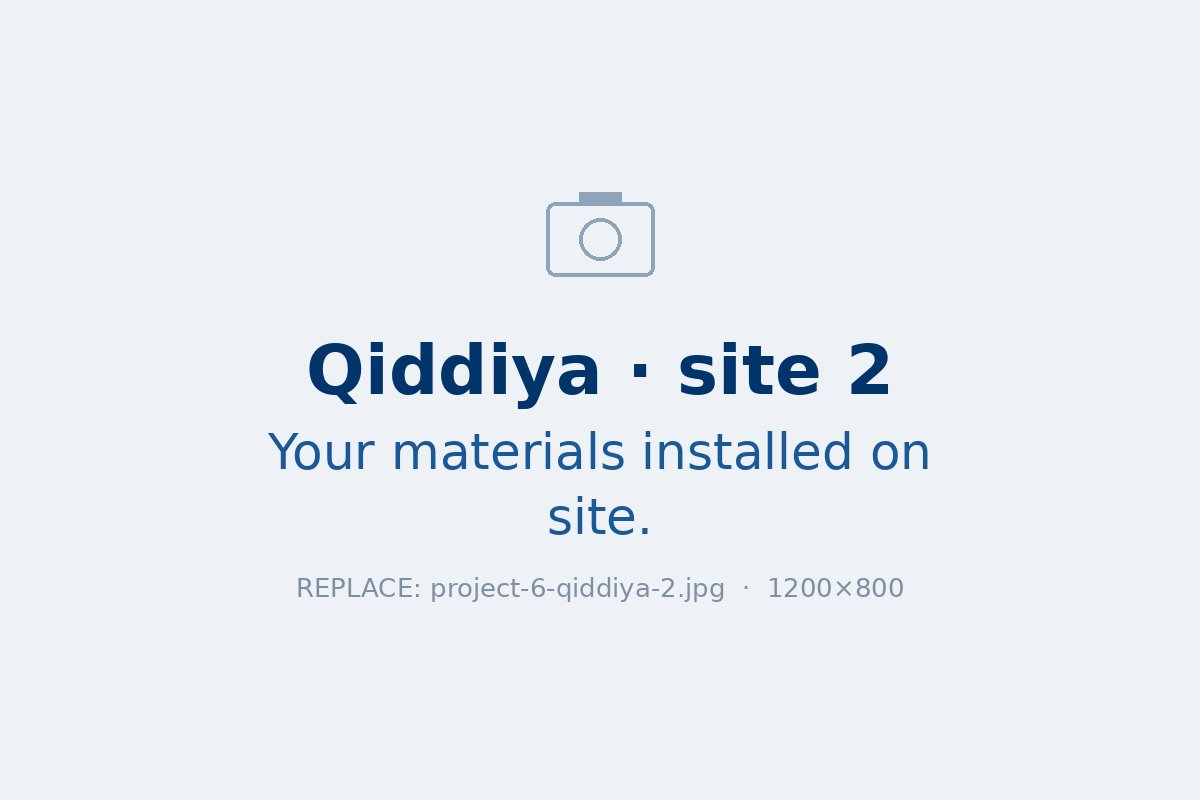
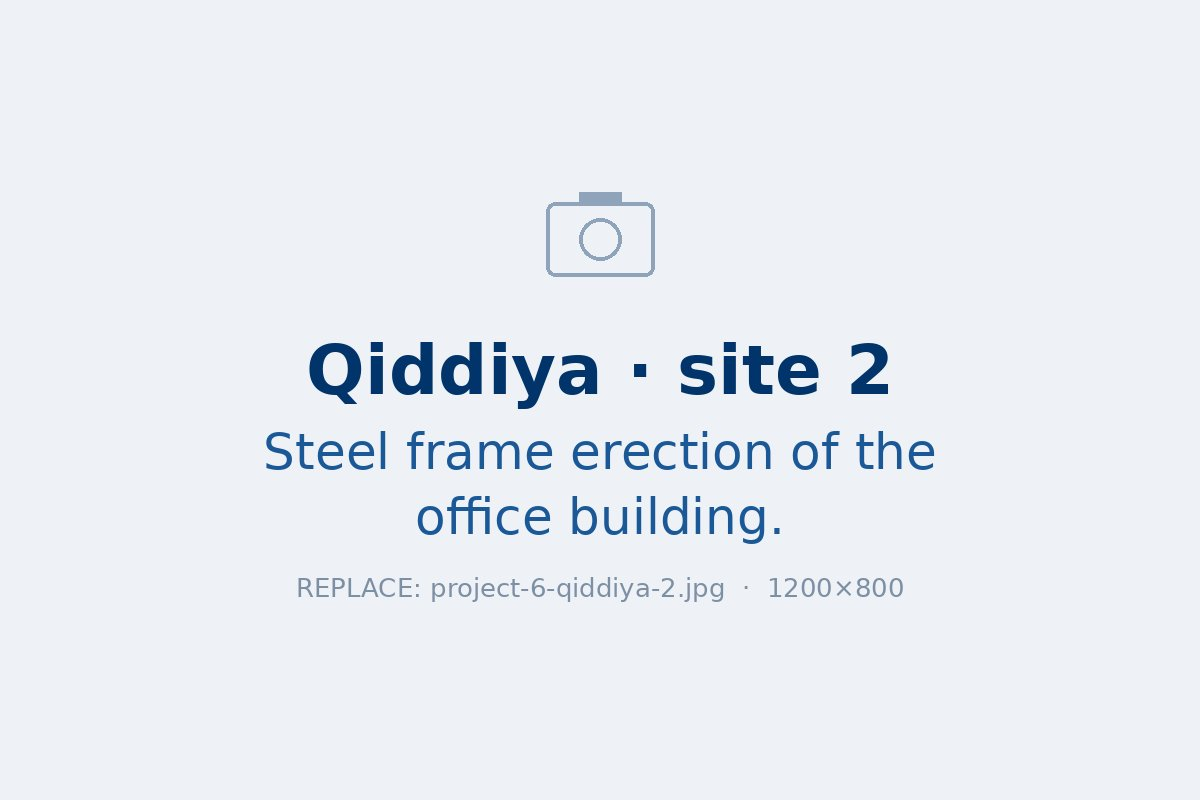
Fill in the Qiddiya Delta B office project
From the Package 2A scope and methodology documents: EPC+O turnkey
contract for a 200-staff single-storey steel office (2,044 m², 14,796 m²
site, 134 parking spaces), with client, scope, operations and
standards. The architectural rendering becomes the cover photo, and the
placeholder tool now skips files that hold real photos.

Claude-Session: https://claude.ai/code/session_01RTby4RrQXZBZquxnUuQmaH

Changed region(s): [[0.2158, 0.5312, 0.8017, 0.5938], [0.3392, 0.625, 0.6475, 0.6875]]

diff --git a/allgood-website/ar.html b/allgood-website/ar.html
@@ -325,11 +325,11 @@
           </article>
           <article class="project gallery__item">
             <button class="project__open" type="button" data-open="project-6" aria-haspopup="dialog">
-              <img class="photo" src="assets/photos/project-6-qiddiya.jpg" alt="القدية" width="1200" height="800" loading="lazy">
-              <span class="roles"><span class="role role--subcontractor">مقاول باطن</span></span>
+              <img class="photo" src="assets/photos/project-6-qiddiya.jpg" alt="مكتب القدية دلتا B، تصور معماري" width="1200" height="800" loading="lazy">
+              <span class="roles"><span class="role role--subcontractor">مقاول EPC+O</span></span>
               <span class="project__tag">مشروع عملاق</span>
-              <span class="project__title">القدية</span>
-              <span class="project__short">أعمال داخل مشروع القدية العملاق في الرياض.</span>
+              <span class="project__title">مكتب القدية دلتا B</span>
+              <span class="project__short">مبنى مكاتب بهيكل فولاذي لـ 200 موظف بنظام تسليم المفتاح: تصميم وتنفيذ وتشغيل.</span>
               <span class="project__more">عرض التفاصيل <svg viewBox="0 0 24 24" aria-hidden="true"><path d="M9 5l7 7-7 7"/></svg></span>
             </button>
           </article>
@@ -724,15 +724,15 @@
       <button class="modal__close" type="button" data-close aria-label="إغلاق">
         <svg viewBox="0 0 24 24" aria-hidden="true"><path d="M6 6l12 12M18 6L6 18"/></svg>
       </button>
-      <span class="roles"><span class="role role--subcontractor">مقاول باطن</span></span>
+      <span class="roles"><span class="role role--subcontractor">مقاول EPC+O</span></span>
       <p class="project__tag">مشروع عملاق</p>
-      <h3 class="modal__title" id="project-6-title">القدية</h3>
+      <h3 class="modal__title" id="project-6-title">مكتب القدية دلتا B</h3>
       <h4 class="modal__sub">موقع المشروع</h4>
       <div class="gallery" data-gallery>
-        <div class="gallery__track" tabindex="0" aria-label="القدية: صور موقع المشروع">
-          <img class="photo gallery__item" src="assets/photos/project-6-qiddiya.jpg" alt="القدية: موقع المشروع، صورة 1" width="1200" height="800" loading="lazy">
-          <img class="photo gallery__item" src="assets/photos/project-6-qiddiya-2.jpg" alt="القدية: موقع المشروع، صورة 2" width="1200" height="800" loading="lazy">
-          <img class="photo gallery__item" src="assets/photos/project-6-qiddiya-3.jpg" alt="القدية: موقع المشروع، صورة 3" width="1200" height="800" loading="lazy">
+        <div class="gallery__track" tabindex="0" aria-label="مكتب القدية دلتا B: صور موقع المشروع">
+          <img class="photo gallery__item" src="assets/photos/project-6-qiddiya.jpg" alt="مكتب القدية دلتا B: تصور معماري" width="1200" height="800" loading="lazy">
+          <img class="photo gallery__item" src="assets/photos/project-6-qiddiya-2.jpg" alt="مكتب القدية دلتا B: موقع المشروع، صورة 2" width="1200" height="800" loading="lazy">
+          <img class="photo gallery__item" src="assets/photos/project-6-qiddiya-3.jpg" alt="مكتب القدية دلتا B: موقع المشروع، صورة 3" width="1200" height="800" loading="lazy">
         </div>
         <div class="gallery__nav">
           <button class="gallery__btn" data-dir="-1" aria-label="الصورة السابقة"><svg viewBox="0 0 24 24" aria-hidden="true"><path d="M15 5l-7 7 7 7"/></svg></button>
@@ -741,10 +741,10 @@
       </div>
       <h4 class="modal__sub">أعمالنا في الموقع</h4>
       <div class="gallery" data-gallery>
-        <div class="gallery__track" tabindex="0" aria-label="القدية: صور أعمالنا في الموقع">
-          <img class="photo gallery__item" src="assets/photos/project-6-qiddiya-works-1.jpg" alt="القدية: أعمالنا في الموقع، صورة 1" width="1200" height="800" loading="lazy">
-          <img class="photo gallery__item" src="assets/photos/project-6-qiddiya-works-2.jpg" alt="القدية: أعمالنا في الموقع، صورة 2" width="1200" height="800" loading="lazy">
-          <img class="photo gallery__item" src="assets/photos/project-6-qiddiya-works-3.jpg" alt="القدية: أعمالنا في الموقع، صورة 3" width="1200" height="800" loading="lazy">
+        <div class="gallery__track" tabindex="0" aria-label="مكتب القدية دلتا B: صور أعمالنا في الموقع">
+          <img class="photo gallery__item" src="assets/photos/project-6-qiddiya-works-1.jpg" alt="مكتب القدية دلتا B: أعمالنا في الموقع، صورة 1" width="1200" height="800" loading="lazy">
+          <img class="photo gallery__item" src="assets/photos/project-6-qiddiya-works-2.jpg" alt="مكتب القدية دلتا B: أعمالنا في الموقع، صورة 2" width="1200" height="800" loading="lazy">
+          <img class="photo gallery__item" src="assets/photos/project-6-qiddiya-works-3.jpg" alt="مكتب القدية دلتا B: أعمالنا في الموقع، صورة 3" width="1200" height="800" loading="lazy">
         </div>
         <div class="gallery__nav">
           <button class="gallery__btn" data-dir="-1" aria-label="الصورة السابقة"><svg viewBox="0 0 24 24" aria-hidden="true"><path d="M15 5l-7 7 7 7"/></svg></button>
@@ -752,11 +752,15 @@
         </div>
       </div>
       <dl class="details">
-        <dt>دورنا</dt><dd>مقاول باطن</dd>
-        <dt>الموقع</dt><dd>القدية، الرياض، المملكة العربية السعودية</dd>
-        <dt>العميل / مقاول EPC</dt><dd>يُضاف لاحقًا</dd>
-        <dt>وحدة الأعمال</dt><dd>يُضاف لاحقًا</dd>
-        <dt>النطاق كمقاول باطن</dt><dd>يُضاف لاحقًا.</dd>
+        <dt>دورنا</dt><dd>مقاول تسليم مفتاح EPC+O: الهندسة والمشتريات والإنشاء والتشغيل</dd>
+        <dt>الموقع</dt><dd>منطقة تطوير القدية (دلتا B)، منطقة الرياض</dd>
+        <dt>العميل</dt><dd>شركة القدية للاستثمار</dd>
+        <dt>الحزمة</dt><dd>دلتا B، الحزمة 2A: مكتب صاحب العمل لـ 200 موظف</dd>
+        <dt>المنشأة</dt><dd>مبنى مكاتب بهيكل فولاذي من طابق واحد بمساحة 2,044 م² مع غرفة حراسة، على موقع مساحته 14,796 م²، و134 موقفًا للسيارات. عمر تصميمي 10 سنوات، مع جاهزية لإضافة طابق ثانٍ مستقبلًا.</dd>
+        <dt>نطاق العمل</dt><dd>التصميم وتنسيق نمذجة BIM، والمشتريات والتصنيع المسبق في المصنع، والأعمال المدنية والهياكل الفولاذية، والأعمال الكهروميكانيكية كاملة (تكييف VRF، ومولدات احتياطية بقدرة 460 كيلوواط، والحماية من الحريق، والاتصالات والأمن)، والطرق والمواقف وتنسيق المواقع، ثم الاختبار واعتماد الدفاع المدني والتسليم.</dd>
+        <dt>التشغيل</dt><dd>إدارة المرافق بعد التسليم: الصيانة الوقائية والتصحيحية، والكوادر، والإعاشة، والمستلزمات.</dd>
+        <dt>المعايير</dt><dd>كود البناء السعودي، ومتطلبات الدفاع المدني، والمعايير الفنية لشركة القدية</dd>
+        <dt>وحدات الأعمال</dt><dd>الإنشاءات الهندسية · الهياكل الفولاذية والتصنيع المعدني · المواد الكهربائية · المعدات ودعم المواقع</dd>
       </dl>
     </div>
   </dialog>

diff --git a/allgood-website/index.html b/allgood-website/index.html
@@ -325,11 +325,11 @@
           </article>
           <article class="project gallery__item">
             <button class="project__open" type="button" data-open="project-6" aria-haspopup="dialog">
-              <img class="photo" src="assets/photos/project-6-qiddiya.jpg" alt="Qiddiya" width="1200" height="800" loading="lazy">
-              <span class="roles"><span class="role role--subcontractor">Subcontractor</span></span>
+              <img class="photo" src="assets/photos/project-6-qiddiya.jpg" alt="Qiddiya Delta B office, architectural rendering" width="1200" height="800" loading="lazy">
+              <span class="roles"><span class="role role--subcontractor">EPC+O contractor</span></span>
               <span class="project__tag">Giga-project</span>
-              <span class="project__title">Qiddiya</span>
-              <span class="project__short">Works inside the Qiddiya giga-project in Riyadh.</span>
+              <span class="project__title">Qiddiya Delta B Office</span>
+              <span class="project__short">Turnkey steel-structure office for 200 staff: design, build and operate.</span>
               <span class="project__more">View details <svg viewBox="0 0 24 24" aria-hidden="true"><path d="M9 5l7 7-7 7"/></svg></span>
             </button>
           </article>
@@ -724,15 +724,15 @@
       <button class="modal__close" type="button" data-close aria-label="Close">
         <svg viewBox="0 0 24 24" aria-hidden="true"><path d="M6 6l12 12M18 6L6 18"/></svg>
       </button>
-      <span class="roles"><span class="role role--subcontractor">Subcontractor</span></span>
+      <span class="roles"><span class="role role--subcontractor">EPC+O contractor</span></span>
       <p class="project__tag">Giga-project</p>
-      <h3 class="modal__title" id="project-6-title">Qiddiya</h3>
+      <h3 class="modal__title" id="project-6-title">Qiddiya Delta B Office</h3>
       <h4 class="modal__sub">Project site</h4>
       <div class="gallery" data-gallery>
-        <div class="gallery__track" tabindex="0" aria-label="Qiddiya: project site photos">
-          <img class="photo gallery__item" src="assets/photos/project-6-qiddiya.jpg" alt="Qiddiya: project site, photo 1" width="1200" height="800" loading="lazy">
-          <img class="photo gallery__item" src="assets/photos/project-6-qiddiya-2.jpg" alt="Qiddiya: project site, photo 2" width="1200" height="800" loading="lazy">
-          <img class="photo gallery__item" src="assets/photos/project-6-qiddiya-3.jpg" alt="Qiddiya: project site, photo 3" width="1200" height="800" loading="lazy">
+        <div class="gallery__track" tabindex="0" aria-label="Qiddiya Delta B Office: project site photos">
+          <img class="photo gallery__item" src="assets/photos/project-6-qiddiya.jpg" alt="Qiddiya Delta B Office: architectural rendering" width="1200" height="800" loading="lazy">
+          <img class="photo gallery__item" src="assets/photos/project-6-qiddiya-2.jpg" alt="Qiddiya Delta B Office: project site, photo 2" width="1200" height="800" loading="lazy">
+          <img class="photo gallery__item" src="assets/photos/project-6-qiddiya-3.jpg" alt="Qiddiya Delta B Office: project site, photo 3" width="1200" height="800" loading="lazy">
         </div>
         <div class="gallery__nav">
           <button class="gallery__btn" data-dir="-1" aria-label="Previous photo"><svg viewBox="0 0 24 24" aria-hidden="true"><path d="M15 5l-7 7 7 7"/></svg></button>
@@ -741,10 +741,10 @@
       </div>
       <h4 class="modal__sub">Our works on site</h4>
       <div class="gallery" data-gallery>
-        <div class="gallery__track" tabindex="0" aria-label="Qiddiya: our works on site photos">
-          <img class="photo gallery__item" src="assets/photos/project-6-qiddiya-works-1.jpg" alt="Qiddiya: our works on site, photo 1" width="1200" height="800" loading="lazy">
-          <img class="photo gallery__item" src="assets/photos/project-6-qiddiya-works-2.jpg" alt="Qiddiya: our works on site, photo 2" width="1200" height="800" loading="lazy">
-          <img class="photo gallery__item" src="assets/photos/project-6-qiddiya-works-3.jpg" alt="Qiddiya: our works on site, photo 3" width="1200" height="800" loading="lazy">
+        <div class="gallery__track" tabindex="0" aria-label="Qiddiya Delta B Office: our works on site photos">
+          <img class="photo gallery__item" src="assets/photos/project-6-qiddiya-works-1.jpg" alt="Qiddiya Delta B Office: our works on site, photo 1" width="1200" height="800" loading="lazy">
+          <img class="photo gallery__item" src="assets/photos/project-6-qiddiya-works-2.jpg" alt="Qiddiya Delta B Office: our works on site, photo 2" width="1200" height="800" loading="lazy">
+          <img class="photo gallery__item" src="assets/photos/project-6-qiddiya-works-3.jpg" alt="Qiddiya Delta B Office: our works on site, photo 3" width="1200" height="800" loading="lazy">
         </div>
         <div class="gallery__nav">
           <button class="gallery__btn" data-dir="-1" aria-label="Previous photo"><svg viewBox="0 0 24 24" aria-hidden="true"><path d="M15 5l-7 7 7 7"/></svg></button>
@@ -752,11 +752,15 @@
         </div>
       </div>
       <dl class="details">
-        <dt>Our role</dt><dd>Subcontractor</dd>
-        <dt>Location</dt><dd>Qiddiya, Riyadh, Saudi Arabia</dd>
-        <dt>Client / EPC</dt><dd>To be added</dd>
-        <dt>Business unit</dt><dd>To be added</dd>
-        <dt>Scope as subcontractor</dt><dd>To be added.</dd>
+        <dt>Our role</dt><dd>EPC+O turnkey contractor: engineering, procurement, construction and operations</dd>
+        <dt>Location</dt><dd>Qiddiya Development Area (Delta B), Riyadh Province</dd>
+        <dt>Client</dt><dd>Qiddiya Investment Company (QIC)</dd>
+        <dt>Package</dt><dd>Delta B, Package 2A: Employer Office for 200 staff</dd>
+        <dt>Facility</dt><dd>Single-storey steel-frame office of 2,044 m² with a guardhouse, on a 14,796 m² site, with 134 parking spaces. 10-year design life, ready for a future second storey.</dd>
+        <dt>Scope</dt><dd>Design and BIM coordination, procurement and factory prefabrication, civil and steel structure works, full MEP (VRF air conditioning, 460 kW standby generators, fire protection, ICT and security), roads, parking and landscaping, then testing, Civil Defense approval and handover.</dd>
+        <dt>Operations</dt><dd>Facility management after handover: preventive and corrective maintenance, staffing, catering and supplies.</dd>
+        <dt>Standards</dt><dd>Saudi Building Code (SBC), Saudi Civil Defense and QIC technical standards</dd>
+        <dt>Business units</dt><dd>Engineering construction · Steel &amp; metal fabrication · Electrical materials · Equipment &amp; site support</dd>
       </dl>
     </div>
   </dialog>

diff --git a/allgood-website/zh.html b/allgood-website/zh.html
@@ -325,11 +325,11 @@
           </article>
           <article class="project gallery__item">
             <button class="project__open" type="button" data-open="project-6" aria-haspopup="dialog">
-              <img class="photo" src="assets/photos/project-6-qiddiya.jpg" alt="齐迪亚" width="1200" height="800" loading="lazy">
-              <span class="roles"><span class="role role--subcontractor">分包商</span></span>
+              <img class="photo" src="assets/photos/project-6-qiddiya.jpg" alt="齐迪亚 Delta B 办公楼，建筑效果图" width="1200" height="800" loading="lazy">
+              <span class="roles"><span class="role role--subcontractor">EPC+O 总承包</span></span>
               <span class="project__tag">超级项目</span>
-              <span class="project__title">齐迪亚</span>
-              <span class="project__short">在利雅得齐迪亚超级项目内进场施工。</span>
+              <span class="project__title">齐迪亚 Delta B 办公楼</span>
+              <span class="project__short">200 人钢结构办公楼交钥匙工程：设计、建造与运维。</span>
               <span class="project__more">查看详情 <svg viewBox="0 0 24 24" aria-hidden="true"><path d="M9 5l7 7-7 7"/></svg></span>
             </button>
           </article>
@@ -724,15 +724,15 @@
       <button class="modal__close" type="button" data-close aria-label="关闭">
         <svg viewBox="0 0 24 24" aria-hidden="true"><path d="M6 6l12 12M18 6L6 18"/></svg>
       </button>
-      <span class="roles"><span class="role role--subcontractor">分包商</span></span>
+      <span class="roles"><span class="role role--subcontractor">EPC+O 总承包</span></span>
       <p class="project__tag">超级项目</p>
-      <h3 class="modal__title" id="project-6-title">齐迪亚</h3>
+      <h3 class="modal__title" id="project-6-title">齐迪亚 Delta B 办公楼</h3>
       <h4 class="modal__sub">项目现场</h4>
       <div class="gallery" data-gallery>
-        <div class="gallery__track" tabindex="0" aria-label="齐迪亚：项目现场照片">
-          <img class="photo gallery__item" src="assets/photos/project-6-qiddiya.jpg" alt="齐迪亚：项目现场，照片 1" width="1200" height="800" loading="lazy">
-          <img class="photo gallery__item" src="assets/photos/project-6-qiddiya-2.jpg" alt="齐迪亚：项目现场，照片 2" width="1200" height="800" loading="lazy">
-          <img class="photo gallery__item" src="assets/photos/project-6-qiddiya-3.jpg" alt="齐迪亚：项目现场，照片 3" width="1200" height="800" loading="lazy">
+        <div class="gallery__track" tabindex="0" aria-label="齐迪亚 Delta B 办公楼：项目现场照片">
+          <img class="photo gallery__item" src="assets/photos/project-6-qiddiya.jpg" alt="齐迪亚 Delta B 办公楼：建筑效果图" width="1200" height="800" loading="lazy">
+          <img class="photo gallery__item" src="assets/photos/project-6-qiddiya-2.jpg" alt="齐迪亚 Delta B 办公楼：项目现场，照片 2" width="1200" height="800" loading="lazy">
+          <img class="photo gallery__item" src="assets/photos/project-6-qiddiya-3.jpg" alt="齐迪亚 Delta B 办公楼：项目现场，照片 3" width="1200" height="800" loading="lazy">
         </div>
         <div class="gallery__nav">
           <button class="gallery__btn" data-dir="-1" aria-label="上一张"><svg viewBox="0 0 24 24" aria-hidden="true"><path d="M15 5l-7 7 7 7"/></svg></button>
@@ -741,10 +741,10 @@
       </div>
       <h4 class="modal__sub">现场施工</h4>
       <div class="gallery" data-gallery>
-        <div class="gallery__track" tabindex="0" aria-label="齐迪亚：现场施工照片">
-          <img class="photo gallery__item" src="assets/photos/project-6-qiddiya-works-1.jpg" alt="齐迪亚：现场施工，照片 1" width="1200" height="800" loading="lazy">
-          <img class="photo gallery__item" src="assets/photos/project-6-qiddiya-works-2.jpg" alt="齐迪亚：现场施工，照片 2" width="1200" height="800" loading="lazy">
-          <img class="photo gallery__item" src="assets/photos/project-6-qiddiya-works-3.jpg" alt="齐迪亚：现场施工，照片 3" width="1200" height="800" loading="lazy">
+        <div class="gallery__track" tabindex="0" aria-label="齐迪亚 Delta B 办公楼：现场施工照片">
+          <img class="photo gallery__item" src="assets/photos/project-6-qiddiya-works-1.jpg" alt="齐迪亚 Delta B 办公楼：现场施工，照片 1" width="1200" height="800" loading="lazy">
+          <img class="photo gallery__item" src="assets/photos/project-6-qiddiya-works-2.jpg" alt="齐迪亚 Delta B 办公楼：现场施工，照片 2" width="1200" height="800" loading="lazy">
+          <img class="photo gallery__item" src="assets/photos/project-6-qiddiya-works-3.jpg" alt="齐迪亚 Delta B 办公楼：现场施工，照片 3" width="1200" height="800" loading="lazy">
         </div>
         <div class="gallery__nav">
           <button class="gallery__btn" data-dir="-1" aria-label="上一张"><svg viewBox="0 0 24 24" aria-hidden="true"><path d="M15 5l-7 7 7 7"/></svg></button>
@@ -752,11 +752,15 @@
         </div>
       </div>
       <dl class="details">
-        <dt>我方角色</dt><dd>分包商</dd>
-        <dt>地点</dt><dd>沙特阿拉伯 利雅得 齐迪亚</dd>
-        <dt>业主 / EPC 总包</dt><dd>待补充</dd>
-        <dt>业务板块</dt><dd>待补充</dd>
-        <dt>分包范围</dt><dd>待补充。</dd>
+        <dt>我方角色</dt><dd>EPC+O 交钥匙总承包：设计、采购、施工及运维</dd>
+        <dt>地点</dt><dd>利雅得省齐迪亚开发区（Delta B 区）</dd>
+        <dt>业主</dt><dd>齐迪亚投资公司（QIC）</dd>
+        <dt>标段</dt><dd>Delta B 区 2A 标段：200 人业主办公楼</dd>
+        <dt>建筑概况</dt><dd>单层钢结构办公楼，建筑面积 2,044 m²，含门卫室，占地 14,796 m²，设 134 个停车位。设计使用年限 10 年，预留加建二层条件。</dd>
+        <dt>供货范围</dt><dd>设计与 BIM 协调、采购与工厂预制、土建及钢结构施工、全套机电（VRF 空调、460 kW 备用发电机、消防、弱电与安防）、道路、停车场与景观，以及调试、民防验收和移交。</dd>
+        <dt>运维</dt><dd>移交后的设施运维：预防性和纠正性维护、人员配置、餐饮及物资供应。</dd>
+        <dt>标准认证</dt><dd>沙特建筑规范（SBC）、沙特民防要求及 QIC 技术标准</dd>
+        <dt>业务板块</dt><dd>工程施工 · 钢结构与金属加工 · 电气材料 · 设备与现场支持</dd>
       </dl>
     </div>
   </dialog>

diff --git a/allgood-website/tools/translate.py b/allgood-website/tools/translate.py
@@ -211,6 +211,24 @@ AR = {
     "Works inside the Qiddiya giga-project in Riyadh.": "أعمال داخل مشروع القدية العملاق في الرياض.",
     "@works-photos": "{x}: صور أعمالنا في الموقع",
     "@works-photo": "{x}: أعمالنا في الموقع، صورة {n}",
+    "Client": "العميل",
+    "Delta B, Package 2A: Employer Office for 200 staff": "دلتا B، الحزمة 2A: مكتب صاحب العمل لـ 200 موظف",
+    "Design and BIM coordination, procurement and factory prefabrication, civil and steel structure works, full MEP (VRF air conditioning, 460 kW standby generators, fire protection, ICT and security), roads, parking and landscaping, then testing, Civil Defense approval and handover.": "التصميم وتنسيق نمذجة BIM، والمشتريات والتصنيع المسبق في المصنع، والأعمال المدنية والهياكل الفولاذية، والأعمال الكهروميكانيكية كاملة (تكييف VRF، ومولدات احتياطية بقدرة 460 كيلوواط، والحماية من الحريق، والاتصالات والأمن)، والطرق والمواقف وتنسيق المواقع، ثم الاختبار واعتماد الدفاع المدني والتسليم.",
+    "EPC+O contractor": "مقاول EPC+O",
+    "EPC+O turnkey contractor: engineering, procurement, construction and operations": "مقاول تسليم مفتاح EPC+O: الهندسة والمشتريات والإنشاء والتشغيل",
+    "Engineering construction · Steel & metal fabrication · Electrical materials · Equipment & site support": "الإنشاءات الهندسية · الهياكل الفولاذية والتصنيع المعدني · المواد الكهربائية · المعدات ودعم المواقع",
+    "Facility": "المنشأة",
+    "Facility management after handover: preventive and corrective maintenance, staffing, catering and supplies.": "إدارة المرافق بعد التسليم: الصيانة الوقائية والتصحيحية، والكوادر، والإعاشة، والمستلزمات.",
+    "Operations": "التشغيل",
+    "Package": "الحزمة",
+    "Qiddiya Delta B Office": "مكتب القدية دلتا B",
+    "Qiddiya Delta B Office: architectural rendering": "مكتب القدية دلتا B: تصور معماري",
+    "Qiddiya Delta B office, architectural rendering": "مكتب القدية دلتا B، تصور معماري",
+    "Qiddiya Development Area (Delta B), Riyadh Province": "منطقة تطوير القدية (دلتا B)، منطقة الرياض",
+    "Qiddiya Investment Company (QIC)": "شركة القدية للاستثمار",
+    "Saudi Building Code (SBC), Saudi Civil Defense and QIC technical standards": "كود البناء السعودي، ومتطلبات الدفاع المدني، والمعايير الفنية لشركة القدية",
+    "Single-storey steel-frame office of 2,044 m² with a guardhouse, on a 14,796 m² site, with 134 parking spaces. 10-year design life, ready for a future second storey.": "مبنى مكاتب بهيكل فولاذي من طابق واحد بمساحة 2,044 م² مع غرفة حراسة، على موقع مساحته 14,796 م²، و134 موقفًا للسيارات. عمر تصميمي 10 سنوات، مع جاهزية لإضافة طابق ثانٍ مستقبلًا.",
+    "Turnkey steel-structure office for 200 staff: design, build and operate.": "مبنى مكاتب بهيكل فولاذي لـ 200 موظف بنظام تسليم المفتاح: تصميم وتنفيذ وتشغيل.",
     "Close": "إغلاق",
     # pieces used to build image descriptions
     "@photos": "{x}: صور",
@@ -421,6 +439,24 @@ ZH = {
     "Works inside the Qiddiya giga-project in Riyadh.": "在利雅得齐迪亚超级项目内进场施工。",
     "@works-photos": "{x}：现场施工照片",
     "@works-photo": "{x}：现场施工，照片 {n}",
+    "Client": "业主",
+    "Delta B, Package 2A: Employer Office for 200 staff": "Delta B 区 2A 标段：200 人业主办公楼",
+    "Design and BIM coordination, procurement and factory prefabrication, civil and steel structure works, full MEP (VRF air conditioning, 460 kW standby generators, fire protection, ICT and security), roads, parking and landscaping, then testing, Civil Defense approval and handover.": "设计与 BIM 协调、采购与工厂预制、土建及钢结构施工、全套机电（VRF 空调、460 kW 备用发电机、消防、弱电与安防）、道路、停车场与景观，以及调试、民防验收和移交。",
+    "EPC+O contractor": "EPC+O 总承包",
+    "EPC+O turnkey contractor: engineering, procurement, construction and operations": "EPC+O 交钥匙总承包：设计、采购、施工及运维",
+    "Engineering construction · Steel & metal fabrication · Electrical materials · Equipment & site support": "工程施工 · 钢结构与金属加工 · 电气材料 · 设备与现场支持",
+    "Facility": "建筑概况",
+    "Facility management after handover: preventive and corrective maintenance, staffing, catering and supplies.": "移交后的设施运维：预防性和纠正性维护、人员配置、餐饮及物资供应。",
+    "Operations": "运维",
+    "Package": "标段",
+    "Qiddiya Delta B Office": "齐迪亚 Delta B 办公楼",
+    "Qiddiya Delta B Office: architectural rendering": "齐迪亚 Delta B 办公楼：建筑效果图",
+    "Qiddiya Delta B office, architectural rendering": "齐迪亚 Delta B 办公楼，建筑效果图",
+    "Qiddiya Development Area (Delta B), Riyadh Province": "利雅得省齐迪亚开发区（Delta B 区）",
+    "Qiddiya Investment Company (QIC)": "齐迪亚投资公司（QIC）",
+    "Saudi Building Code (SBC), Saudi Civil Defense and QIC technical standards": "沙特建筑规范（SBC）、沙特民防要求及 QIC 技术标准",
+    "Single-storey steel-frame office of 2,044 m² with a guardhouse, on a 14,796 m² site, with 134 parking spaces. 10-year design life, ready for a future second storey.": "单层钢结构办公楼，建筑面积 2,044 m²，含门卫室，占地 14,796 m²，设 134 个停车位。设计使用年限 10 年，预留加建二层条件。",
+    "Turnkey steel-structure office for 200 staff: design, build and operate.": "200 人钢结构办公楼交钥匙工程：设计、建造与运维。",
     "Close": "关闭",
     "@photos": "{x}照片",
     "@photo": "{x}：照片 {n}",

diff --git a/allgood-website/tools/placeholders.py b/allgood-website/tools/placeholders.py
@@ -18,7 +18,7 @@ PROJECTS = [
     ("3-qassim", "Qassim", "the Qassim CCGT power plant"),
     ("4-wadi", "Wadi", "the Wadi solar plant"),
     ("5-pp12", "PP12", "the PP12 project camp"),
-    ("6-qiddiya", "Qiddiya", "your work at Qiddiya"),
+    ("6-qiddiya", "Qiddiya", "the Qiddiya Delta B office"),
 ]
 SITE_2 = {
     "1-turaif": "Your cable drums delivered to site.",
@@ -26,7 +26,7 @@ SITE_2 = {
     "3-qassim": "Steel structure components on site.",
     "4-wadi": "The steel structure erected on site.",
     "5-pp12": "Prefabricated cafeteria and dormitories.",
-    "6-qiddiya": "Your materials installed on site.",
+    "6-qiddiya": "Steel frame erection of the office building.",
 }
 SITE_3 = {
     "1-turaif": "Cable laying or grid connection work.",
@@ -34,7 +34,7 @@ SITE_3 = {
     "3-qassim": "Pipes and flanges you supplied.",
     "4-wadi": "Flanges, fittings and fasteners supplied.",
     "5-pp12": "Steel structures under construction.",
-    "6-qiddiya": "Installation or handover on site.",
+    "6-qiddiya": "The finished office, parking shades and landscaping.",
 }
 # our role on each project decides which photo rows its details window has
 SUPPLIER = {"1-turaif", "2-saidawi", "3-qassim", "4-wadi", "5-pp12"}
@@ -123,9 +123,12 @@ def draw(file, title, desc, w, h, round_=False):
     im.save("assets/photos/" + file, **opts)
 
 
+# files that already hold real photos: never overwrite them
+REAL = {"project-6-qiddiya.jpg"}
+
 wanted = set(sys.argv[1:])
 for slot in SLOTS:
-    if not wanted or slot[0] in wanted:
+    if slot[0] not in REAL and (not wanted or slot[0] in wanted):
         draw(*slot)
 for file, title, desc in ROUND:
     if not wanted or file in wanted:
